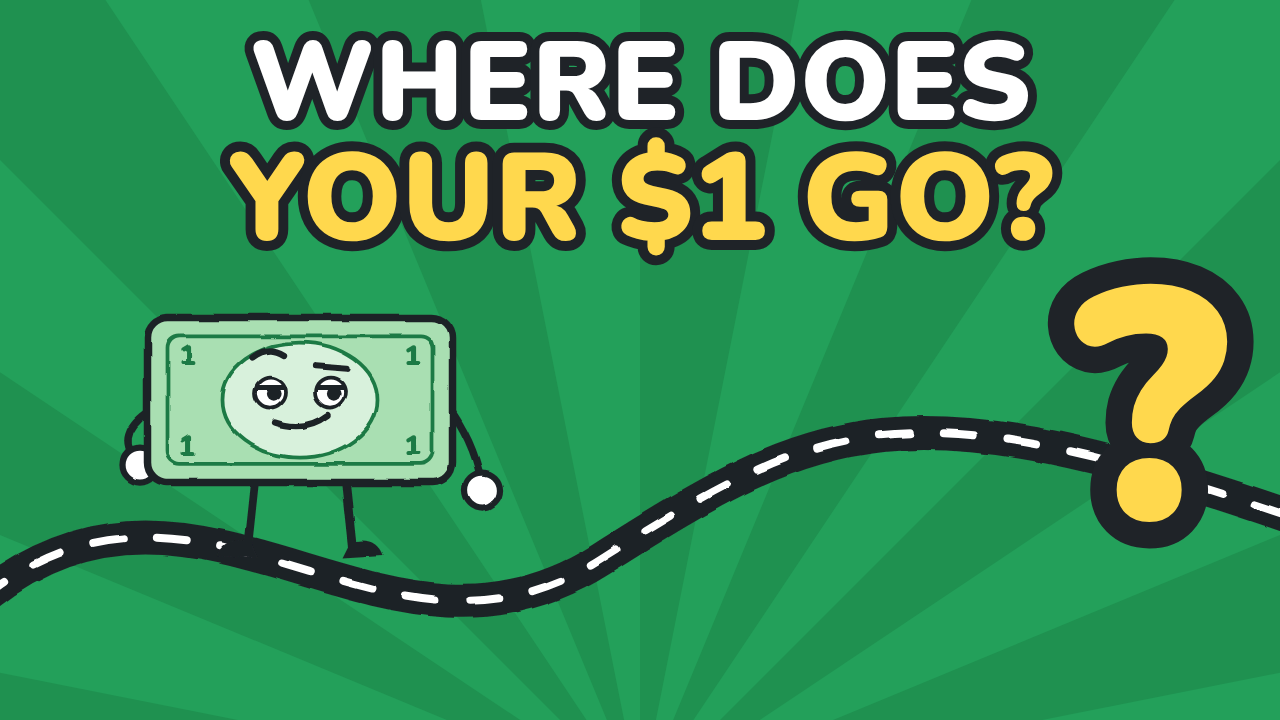
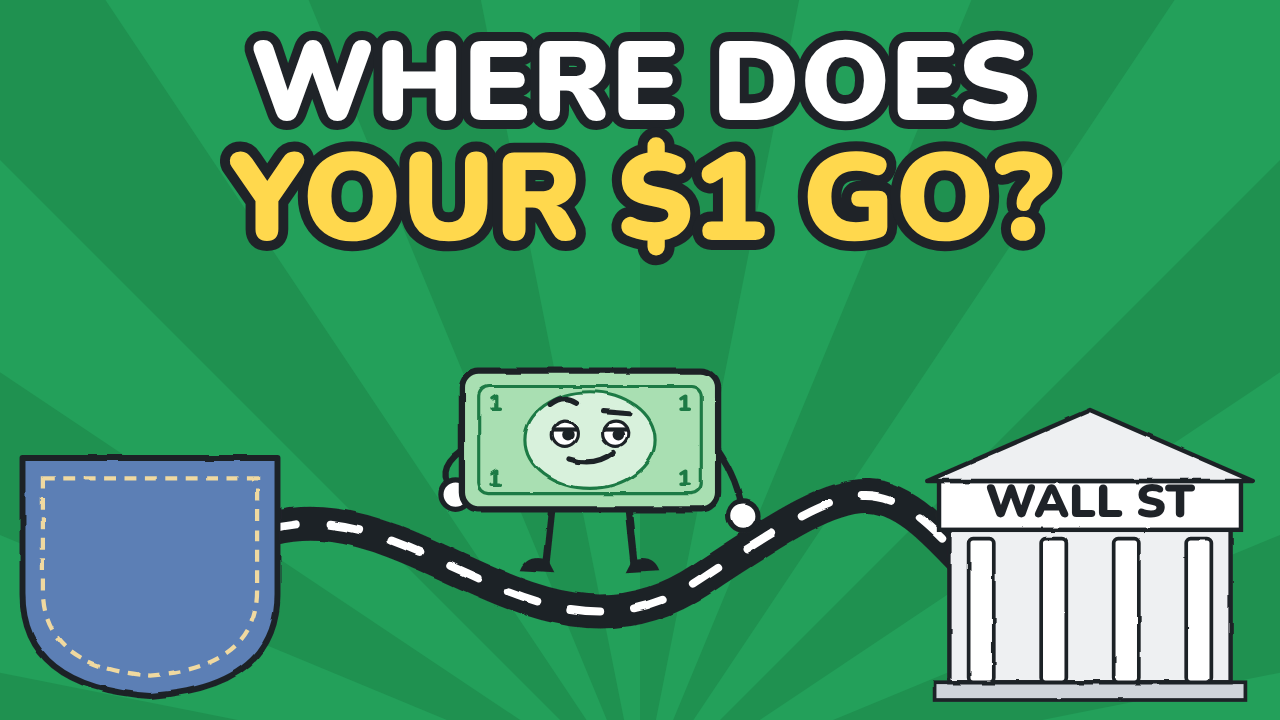
Thumbnail B: dollar travels from the pocket to Wall Street
Claude-Session: https://claude.ai/code/session_01WhC43zTCZsoZD85bqhxNNz

diff --git a/video/01-follow-one-dollar/thumbnail/render.js b/video/01-follow-one-dollar/thumbnail/render.js
@@ -4,7 +4,7 @@ const path = require("path");
 const { chromium } = require("playwright");
 const L = require("../stills/lib.js");
 const { fontCss } = require("../stills/compose.js");
-const { g, W, buck, hamlet, phone, appScreen, tower, appleIcon, bill, arrow, cross, INK, RED, GREEN, DGREEN, PAPER } = L;
+const { g, W, buck, hamlet, phone, appScreen, tower, bank, pocket, appleIcon, bill, arrow, cross, INK, RED, GREEN, DGREEN, PAPER } = L;
 
 // big thumbnail text: heavy, with a thick outline so it reads at phone size
 const big = (x, y, str, size, { fill = "#fff", stroke = INK, sw = 0.16, anchor = "middle", rot = 0 } = {}) =>
@@ -16,10 +16,11 @@ const OPTIONS = {
   a: `<rect width="1280" height="720" fill="#ffd84d"/>${rays(330, 420, "#ffd84d", "#ffc81f")}` +
     g(330, 430, 1.75, buck("shocked")) +
     big(900, 250, "APPLE", 150, { fill: "#fff" }) + big(900, 390, "GETS", 150, { fill: "#fff" }) + big(900, 640, "$0", 300, { fill: RED, stroke: "#fff", sw: 0.1 }),
-  // B: the question and the journey
+  // B: the question and the journey, from your pocket to Wall Street
   b: `<rect width="1280" height="720" fill="${GREEN}"/>${rays(640, 800, GREEN, "#1f9150")}` +
-    W(`<path d="M -20 600 C 200 420, 380 700, 600 560 S 900 380, 1300 520" fill="none" stroke="${INK}" stroke-width="34" stroke-linecap="round"/><path d="M -20 600 C 200 420, 380 700, 600 560 S 900 380, 1300 520" fill="none" stroke="#fff" stroke-width="8" stroke-dasharray="30 34" stroke-linecap="round"/>`) +
-    g(300, 400, 1.25, buck("cocky")) + big(1150, 520, "?", 330, { fill: "#ffd84d" }) +
+    W(`<path d="M 210 560 C 380 430, 520 700, 700 580 S 880 470, 1000 600" fill="none" stroke="${INK}" stroke-width="34" stroke-linecap="round"/><path d="M 210 560 C 380 430, 520 700, 700 580 S 880 470, 1000 600" fill="none" stroke="#fff" stroke-width="8" stroke-dasharray="30 34" stroke-linecap="round"/>`) +
+    g(150, 560, 0.85, pocket()) + g(1090, 700, 0.74, bank(" ", { w: 380 })) + `<text x="1090" y="517" text-anchor="middle" font-family="Nunito, sans-serif" font-weight="900" font-size="46" fill="${INK}">WALL ST</text>` +
+    g(590, 440, 1.05, buck("cocky")) +
     big(640, 120, "WHERE DOES", 112) + big(640, 240, "YOUR $1 GO?", 124, { fill: "#ffd84d" }),
   // C: the tap and the crossed-out arrow
   c: `<rect width="1280" height="720" fill="#2b6cb0"/>${rays(640, 360, "#2b6cb0", "#2a63a2")}` +
